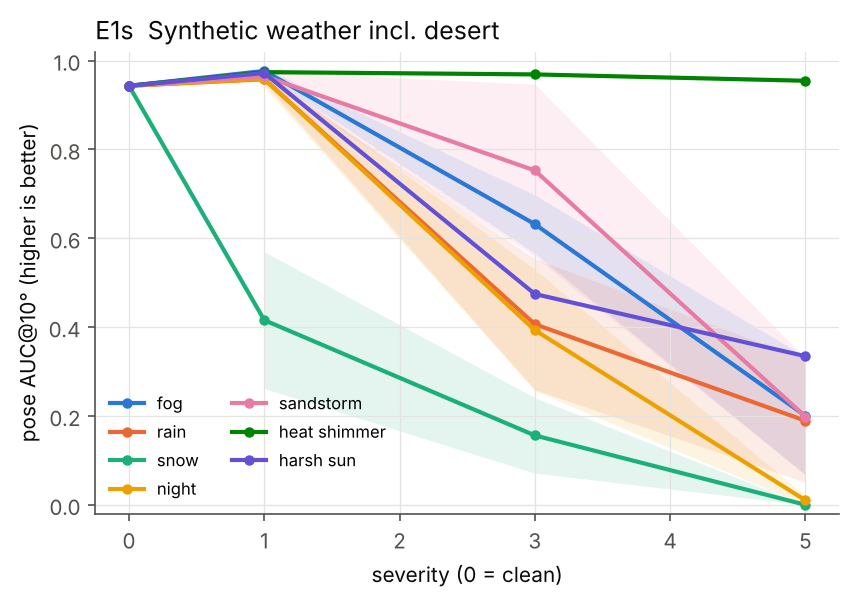
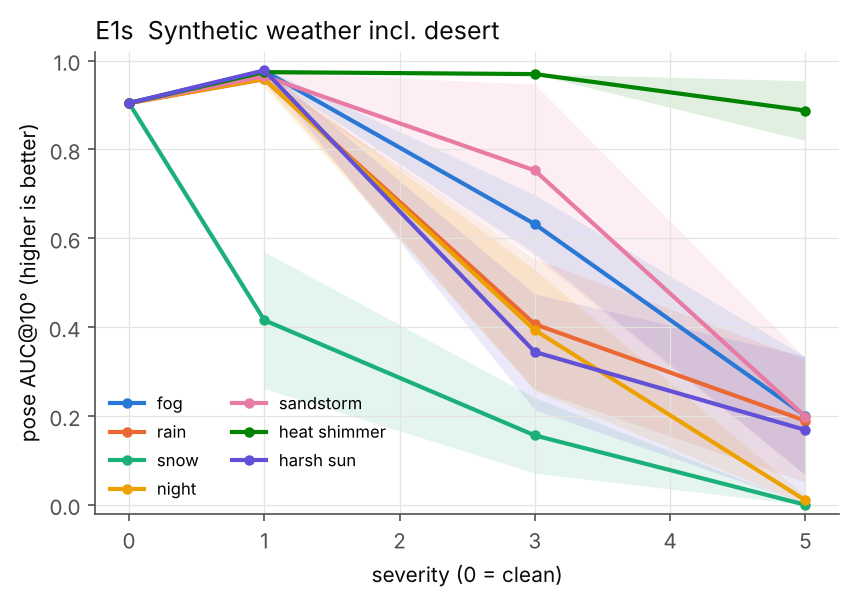
Boreas synthetic-weather grid complete
Claude-Session: https://claude.ai/code/session_01DwFUuxyVwkhujN2CBgQS9g

diff --git a/results/summary.md b/results/summary.md
@@ -5,7 +5,7 @@ Metric: pose AUC@10° over all input image pairs (unregistered = failure) and re
 
 ## Clean baseline
 
-15 runs, AUC@10 = 0.943 (std 0.100), registration 1.000.
+18 runs, AUC@10 = 0.904 (std 0.194), registration 1.000.
 
 
 ## E2a  Analytic corruptions
@@ -60,12 +60,12 @@ Metric: pose AUC@10° over all input image pairs (unregistered = failure) and re
 | fog | 1 | 2 | 0.977 [0.97, 0.98] | 1.000 [1.00, 1.00] |
 | fog | 3 | 2 | 0.632 [0.57, 0.70] | 0.890 [0.78, 1.00] |
 | fog | 5 | 2 | 0.200 [0.07, 0.33] | 0.438 [0.28, 0.60] |
-| harsh_sun | 1 | 1 | 0.972 | 1.000 |
-| harsh_sun | 3 | 1 | 0.474 | 0.740 |
-| harsh_sun | 5 | 1 | 0.335 | 0.640 |
+| harsh_sun | 1 | 2 | 0.978 [0.97, 0.98] | 1.000 [1.00, 1.00] |
+| harsh_sun | 3 | 2 | 0.344 [0.21, 0.47] | 0.607 [0.47, 0.74] |
+| harsh_sun | 5 | 2 | 0.169 [0.00, 0.33] | 0.357 [0.07, 0.64] |
 | heat_shimmer | 1 | 2 | 0.974 [0.97, 0.98] | 1.000 [1.00, 1.00] |
-| heat_shimmer | 3 | 1 | 0.969 | 1.000 |
-| heat_shimmer | 5 | 1 | 0.955 | 1.000 |
+| heat_shimmer | 3 | 2 | 0.970 [0.97, 0.97] | 1.000 [1.00, 1.00] |
+| heat_shimmer | 5 | 2 | 0.887 [0.82, 0.95] | 0.988 [0.97, 1.00] |
 | night | 1 | 2 | 0.959 [0.94, 0.98] | 1.000 [1.00, 1.00] |
 | night | 3 | 2 | 0.393 [0.26, 0.53] | 0.655 [0.55, 0.76] |
 | night | 5 | 2 | 0.010 [0.00, 0.02] | 0.107 [0.04, 0.17] |
@@ -104,12 +104,12 @@ Metric: pose AUC@10° over all input image pairs (unregistered = failure) and re
 | lama_remove | 1 | 1 | 0.970 | 1.000 |
 | lama_remove | 3 | 1 | 0.606 | 1.000 |
 | lama_remove | 5 | 1 | 0.527 | 0.960 |
-| mask | 1 | 1 | 0.968 | 1.000 |
-| mask | 3 | 1 | 0.565 | 0.780 |
-| mask | 5 | 1 | 0.458 | 0.720 |
-| none | 1 | 1 | 0.969 | 1.000 |
-| none | 3 | 1 | 0.497 | 1.000 |
-| none | 5 | 1 | 0.011 | 1.000 |
+| mask | 1 | 2 | 0.972 [0.97, 0.98] | 1.000 [1.00, 1.00] |
+| mask | 3 | 2 | 0.425 [0.28, 0.57] | 0.728 [0.68, 0.78] |
+| mask | 5 | 2 | 0.307 [0.16, 0.46] | 0.672 [0.62, 0.72] |
+| none | 1 | 2 | 0.951 [0.93, 0.97] | 1.000 [1.00, 1.00] |
+| none | 3 | 2 | 0.324 [0.15, 0.50] | 0.975 [0.95, 1.00] |
+| none | 5 | 2 | 0.006 [0.00, 0.01] | 0.662 [0.33, 1.00] |
 
 
 ## E5  Contamination
@@ -142,12 +142,12 @@ Metric: pose AUC@10° over all input image pairs (unregistered = failure) and re
 
 | condition         |   sift+global |   sift+incremental |
 |:------------------|--------------:|-------------------:|
-| clean_s0          |         0.582 |              0.971 |
-| crowd_s4          |         0     |              0.159 |
-| fog_s5            |         0.309 |              0.314 |
-| gaussian_noise_s4 |         0.25  |              0.167 |
-| motion_blur_s3    |         0.078 |              0     |
-| night_s3          |         0.515 |              0.477 |
+| clean_s0          |         0.4   |              0.962 |
+| crowd_s4          |         0     |              0.099 |
+| fog_s5            |         0.309 |              0.19  |
+| gaussian_noise_s4 |         0.215 |              0.108 |
+| motion_blur_s3    |         0.058 |              0     |
+| night_s3          |         0.374 |              0.369 |
 
 
 ## E1  Real weather (Boreas)
@@ -189,18 +189,18 @@ Per sequence:
 
 | perturb | severity | n | auc@10 | reg_frac |
 |---|---|---|---|---|
-| fog | 1 | 17 | 0.648 [0.42, 0.86] | 0.706 [0.47, 0.88] |
-| fog | 3 | 17 | 0.789 [0.63, 0.92] | 0.941 [0.82, 1.00] |
-| fog | 5 | 17 | 0.174 [0.07, 0.28] | 0.437 [0.26, 0.62] |
-| night | 1 | 16 | 0.504 [0.30, 0.74] | 0.566 [0.32, 0.81] |
-| night | 3 | 16 | 0.500 [0.26, 0.74] | 0.572 [0.33, 0.82] |
-| night | 5 | 16 | 0.330 [0.16, 0.53] | 0.627 [0.38, 0.87] |
-| rain | 1 | 17 | 0.626 [0.40, 0.85] | 0.650 [0.41, 0.88] |
-| rain | 3 | 17 | 0.470 [0.25, 0.70] | 0.543 [0.31, 0.77] |
-| rain | 5 | 16 | 0.556 [0.36, 0.75] | 0.694 [0.46, 0.88] |
-| snow | 1 | 16 | 0.669 [0.48, 0.86] | 0.691 [0.50, 0.88] |
-| snow | 3 | 16 | 0.438 [0.23, 0.66] | 0.637 [0.40, 0.88] |
-| snow | 5 | 16 | 0.051 [0.01, 0.11] | 0.423 [0.21, 0.66] |
+| fog | 1 | 19 | 0.683 [0.48, 0.88] | 0.737 [0.53, 0.89] |
+| fog | 3 | 19 | 0.774 [0.62, 0.90] | 0.947 [0.84, 1.00] |
+| fog | 5 | 19 | 0.172 [0.08, 0.28] | 0.455 [0.29, 0.64] |
+| night | 1 | 19 | 0.528 [0.31, 0.74] | 0.582 [0.37, 0.79] |
+| night | 3 | 19 | 0.574 [0.36, 0.77] | 0.639 [0.43, 0.84] |
+| night | 5 | 19 | 0.326 [0.15, 0.52] | 0.636 [0.42, 0.84] |
+| rain | 1 | 19 | 0.663 [0.45, 0.86] | 0.687 [0.48, 0.89] |
+| rain | 3 | 19 | 0.524 [0.31, 0.73] | 0.591 [0.38, 0.80] |
+| rain | 5 | 19 | 0.566 [0.37, 0.75] | 0.741 [0.54, 0.94] |
+| snow | 1 | 19 | 0.717 [0.51, 0.88] | 0.739 [0.53, 0.90] |
+| snow | 3 | 19 | 0.430 [0.24, 0.62] | 0.668 [0.46, 0.85] |
+| snow | 5 | 19 | 0.043 [0.01, 0.09] | 0.366 [0.19, 0.57] |
 
 
 ![](figures/e1_synth_vs_real.png)
